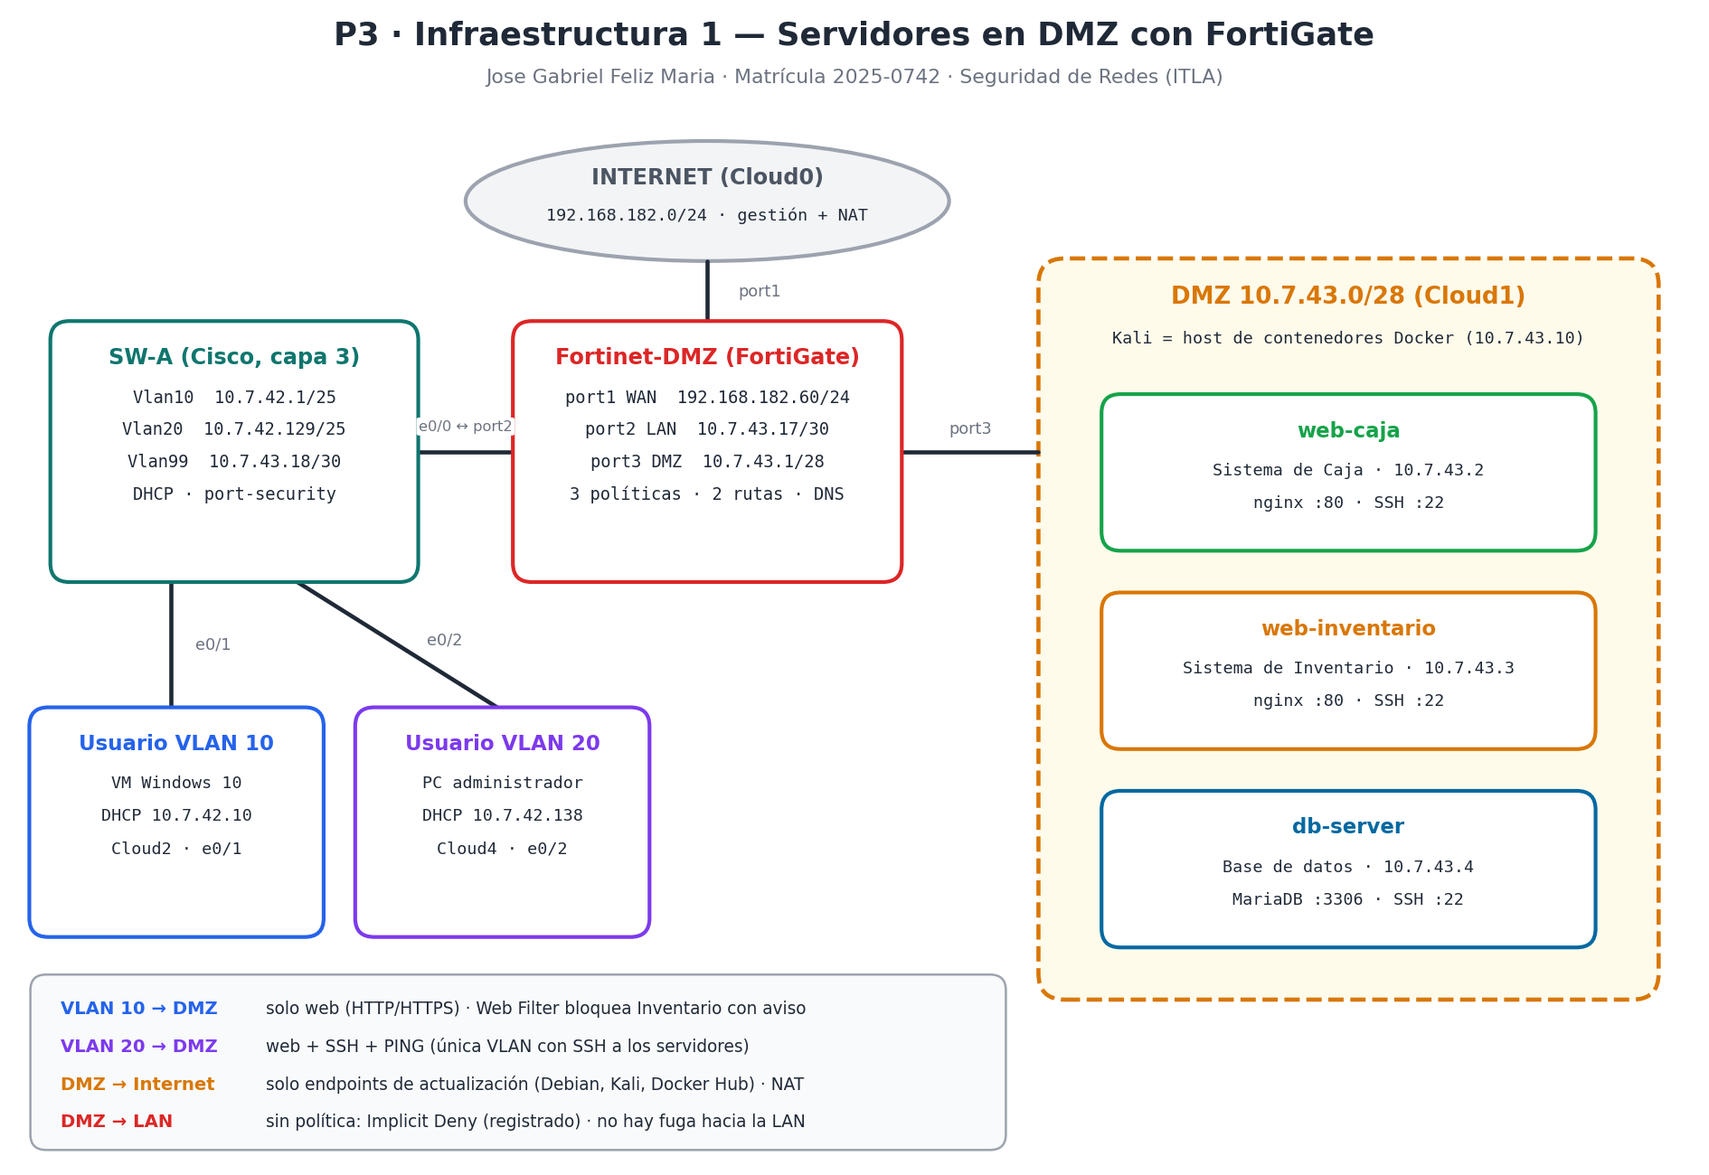
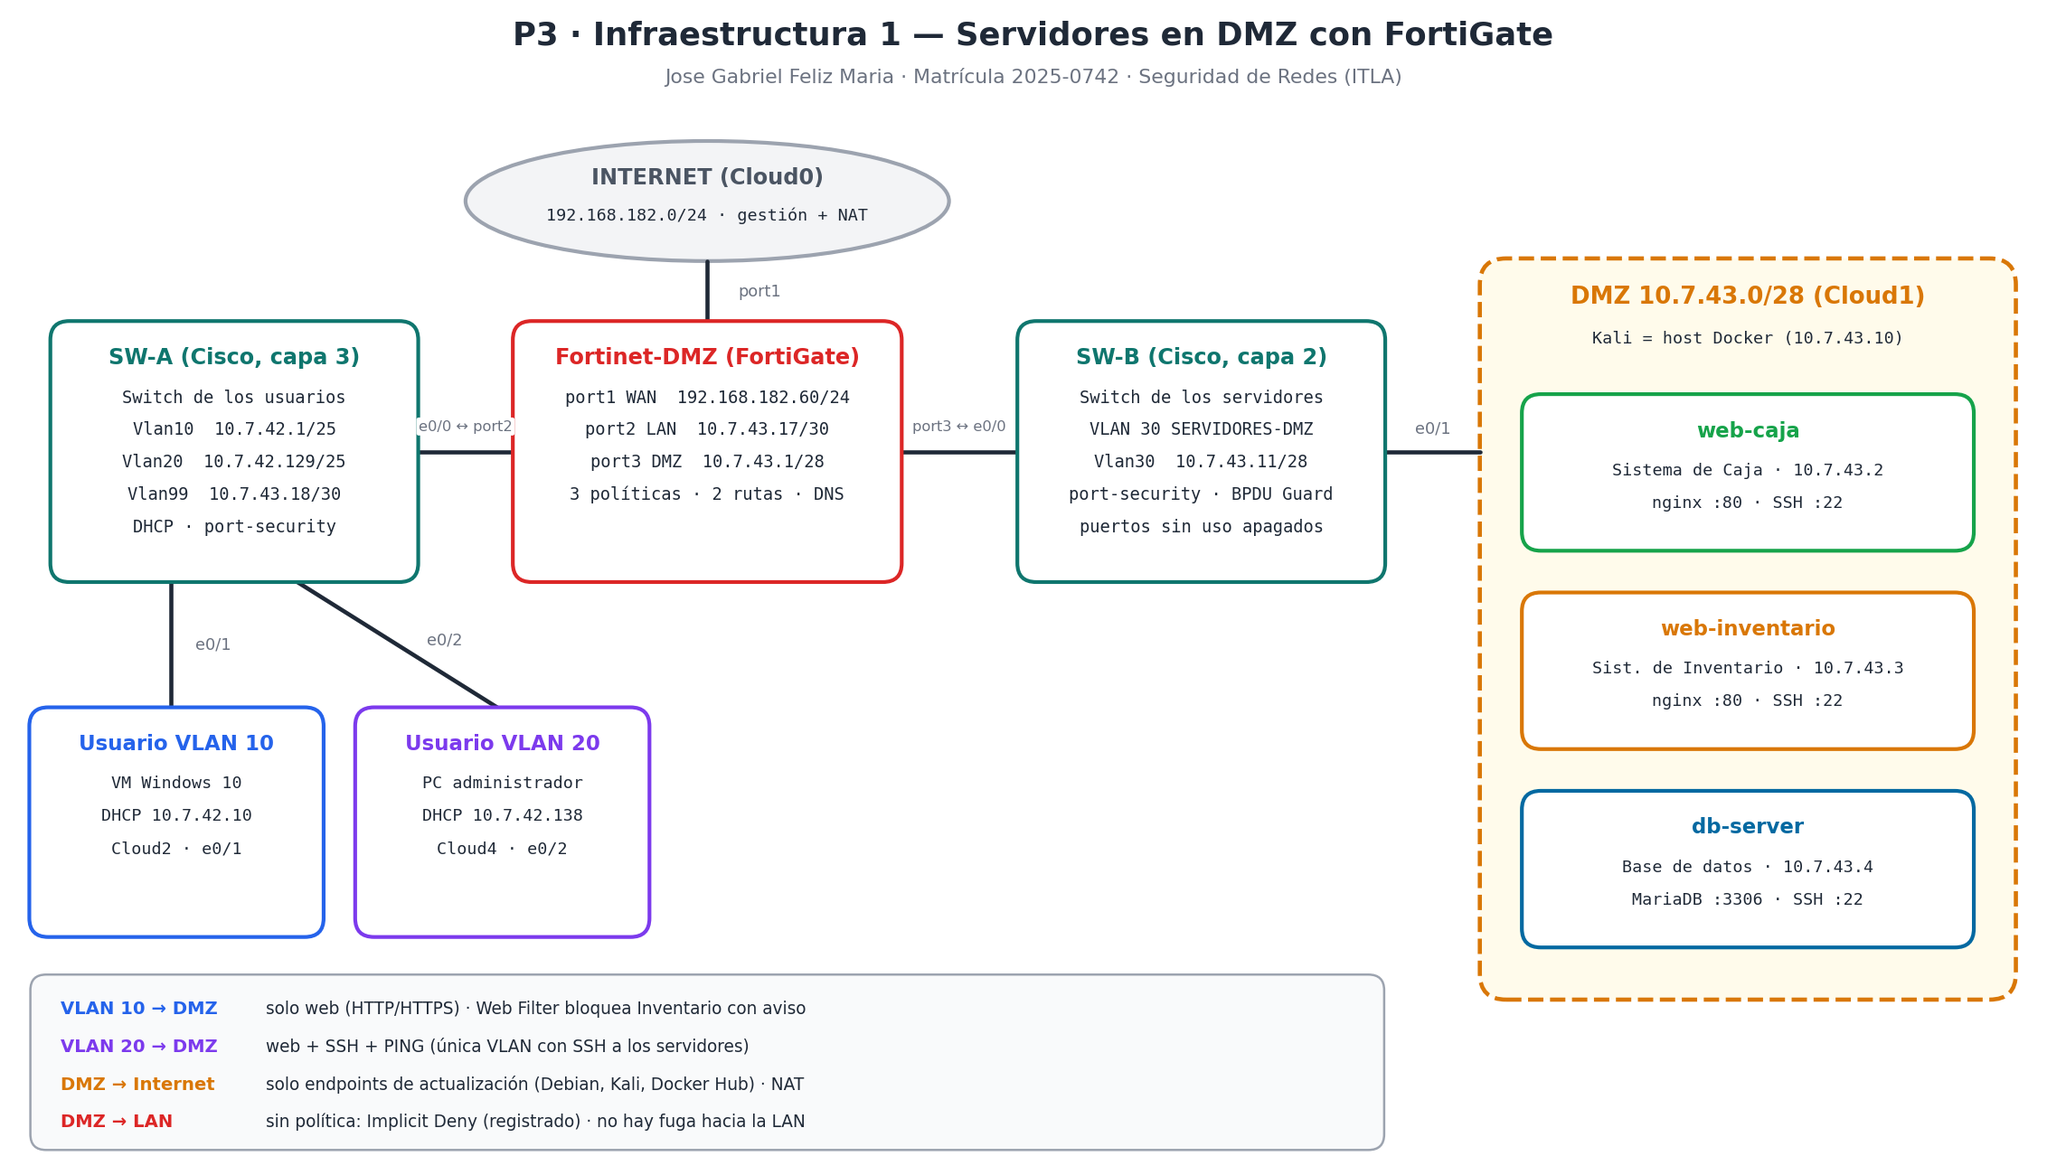
Agrega el segundo switch (SW-B) en la DMZ
SW-B une el port3 del FortiGate con los servidores (VLAN 30, port-security, puertos sin uso apagados, gestion solo desde la VLAN 20). README, diagrama, script, running-config y capturas actualizados.

diff --git a/diagramas/gen_diagrama.py b/diagramas/gen_diagrama.py
@@ -3,8 +3,8 @@ matplotlib.use("Agg")
 import matplotlib.pyplot as plt
 from matplotlib.patches import FancyBboxPatch, Ellipse, FancyArrowPatch
 
-fig, ax = plt.subplots(figsize=(16, 11), dpi=150)
-ax.set_xlim(0, 160); ax.set_ylim(0, 110); ax.axis("off")
+fig, ax = plt.subplots(figsize=(19.4, 11), dpi=150)
+ax.set_xlim(0, 194); ax.set_ylim(0, 110); ax.axis("off")
 fig.patch.set_facecolor("white")
 
 INK = "#1f2937"; MUTED = "#6b7280"
@@ -28,9 +28,9 @@ def link(p1, p2, label=None, color=INK, lw=2.2, ls="-", off=(0, 1.8), fs=8.5):
                 fontsize=fs, color=MUTED, zorder=5, bbox=dict(boxstyle="round,pad=0.15", fc="white", ec="none"))
 
 
-ax.text(80, 107, "P3 · Infraestructura 1 — Servidores en DMZ con FortiGate",
+ax.text(97, 107, "P3 · Infraestructura 1 — Servidores en DMZ con FortiGate",
         ha="center", fontsize=17, fontweight="bold", color=INK)
-ax.text(80, 103.3, "Jose Gabriel Feliz Maria · Matrícula 2025-0742 · Seguridad de Redes (ITLA)",
+ax.text(97, 103.3, "Jose Gabriel Feliz Maria · Matrícula 2025-0742 · Seguridad de Redes (ITLA)",
         ha="center", fontsize=10.5, color=MUTED)
 
 # Internet
@@ -42,31 +42,35 @@ ax.text(66, 90.2, "192.168.182.0/24 · gestión + NAT", ha="center", fontsize=8.
 box(48, 56, 36, 24, "Fortinet-DMZ (FortiGate)", ["port1 WAN  192.168.182.60/24", "port2 LAN  10.7.43.17/30",
                                                  "port3 DMZ  10.7.43.1/28", "3 políticas · 2 rutas · DNS"], C_FGT, tfs=11.5)
 # Switch
-box(4, 56, 34, 24, "SW-A (Cisco, capa 3)", ["Vlan10  10.7.42.1/25", "Vlan20  10.7.42.129/25",
+box(4, 56, 34, 24, "SW-A (Cisco, capa 3)", ["Switch de los usuarios", "Vlan10  10.7.42.1/25", "Vlan20  10.7.42.129/25",
                                            "Vlan99  10.7.43.18/30", "DHCP · port-security"], C_SW, tfs=11.5)
+# Switch de la DMZ
+box(96, 56, 34, 24, "SW-B (Cisco, capa 2)", ["Switch de los servidores", "VLAN 30 SERVIDORES-DMZ", "Vlan30  10.7.43.11/28",
+                                              "port-security · BPDU Guard", "puertos sin uso apagados"], C_SW, tfs=11.5)
 # Users
 box(2, 22, 27, 21, "Usuario VLAN 10", ["VM Windows 10", "DHCP 10.7.42.10", "Cloud2 · e0/1"], C_USR, fs=8.8, tfs=11)
 box(33, 22, 27, 21, "Usuario VLAN 20", ["PC administrador", "DHCP 10.7.42.138", "Cloud4 · e0/2"], C_ADM, fs=8.8, tfs=11)
 
 # DMZ zone
-ax.add_patch(FancyBboxPatch((98, 16), 58, 70, boxstyle="round,pad=0.5,rounding_size=2.5",
+ax.add_patch(FancyBboxPatch((140, 16), 50, 70, boxstyle="round,pad=0.5,rounding_size=2.5",
                             linewidth=2.2, edgecolor=C_WEB, facecolor="#fffbeb", ls="--", zorder=1))
-ax.text(127, 82.2, "DMZ 10.7.43.0/28 (Cloud1)", ha="center", fontsize=12.5, fontweight="bold", color=C_WEB)
-ax.text(127, 78.4, "Kali = host de contenedores Docker (10.7.43.10)", ha="center", fontsize=8.8, color=INK,
+ax.text(165, 82.2, "DMZ 10.7.43.0/28 (Cloud1)", ha="center", fontsize=12.5, fontweight="bold", color=C_WEB)
+ax.text(165, 78.4, "Kali = host Docker (10.7.43.10)", ha="center", fontsize=8.8, color=INK,
         family="DejaVu Sans Mono")
-box(104, 59, 46, 14, "web-caja", ["Sistema de Caja · 10.7.43.2", "nginx :80 · SSH :22"], C_OK, fs=8.8, tfs=11)
-box(104, 40, 46, 14, "web-inventario", ["Sistema de Inventario · 10.7.43.3", "nginx :80 · SSH :22"], C_WEB, fs=8.8, tfs=11)
-box(104, 21, 46, 14, "db-server", ["Base de datos · 10.7.43.4", "MariaDB :3306 · SSH :22"], C_DB, fs=8.8, tfs=11)
+box(144, 59, 42, 14, "web-caja", ["Sistema de Caja · 10.7.43.2", "nginx :80 · SSH :22"], C_OK, fs=8.8, tfs=11)
+box(144, 40, 42, 14, "web-inventario", ["Sist. de Inventario · 10.7.43.3", "nginx :80 · SSH :22"], C_WEB, fs=8.8, tfs=11)
+box(144, 21, 42, 14, "db-server", ["Base de datos · 10.7.43.4", "MariaDB :3306 · SSH :22"], C_DB, fs=8.8, tfs=11)
 
 # Links
 link((66, 80.5), (66, 86.2), "port1", off=(5, 0))
 link((38.5, 68), (47.5, 68), "e0/0 ↔ port2", off=(0, 2.4), fs=7.8)
-link((84.5, 68), (97.5, 68), "port3", off=(0, 2.2))
+link((84.5, 68), (95.5, 68), "port3 ↔ e0/0", off=(0, 2.4), fs=7.8)
+link((130.5, 68), (139.5, 68), "e0/1", off=(0, 2.2))
 link((15, 55.5), (15, 43.5), "e0/1", off=(4, 0))
 link((27, 55.5), (46, 43.5), "e0/2", off=(4.5, 0.5))
 
 # Policy legend
-ax.add_patch(FancyBboxPatch((2, 1.5), 92, 16, boxstyle="round,pad=0.4,rounding_size=1.5",
+ax.add_patch(FancyBboxPatch((2, 1.5), 128, 16, boxstyle="round,pad=0.4,rounding_size=1.5",
                             linewidth=1.2, edgecolor=C_MG, facecolor="#f9fafb", zorder=1))
 rows = [
     (C_USR, "VLAN 10 → DMZ", "solo web (HTTP/HTTPS) · Web Filter bloquea Inventario con aviso"),

diff --git a/README.md b/README.md
@@ -19,7 +19,7 @@ En el video se muestra la hora y fecha del sistema, el rostro y la voz del autor
 2. [Topología](#2-topología)
 3. [Direccionamiento IP](#3-direccionamiento-ip)
 4. [Decisiones de Diseño](#4-decisiones-de-diseño)
-5. [Switch SW-A: VLAN, DHCP y Seguridad Básica](#5-switch-sw-a-vlan-dhcp-y-seguridad-básica)
+5. [Switches SW-A y SW-B: VLAN, DHCP y Seguridad Básica](#5-switches-sw-a-y-sw-b-vlan-dhcp-y-seguridad-básica)
 6. [Servidores de la DMZ (Contenedores Docker)](#6-servidores-de-la-dmz-contenedores-docker)
 7. [FortiGate: Red y DMZ (GUI)](#7-fortigate-red-y-dmz-gui)
 8. [FortiGate: Objetos y Políticas (GUI)](#8-fortigate-objetos-y-políticas-gui)
@@ -42,7 +42,7 @@ Proteger tres servidores (dos servidores web y uno de base de datos) colocándol
 4. **SSH solo desde la VLAN 20.** La VLAN 20 (administración) es la única que puede entrar por SSH a los servidores.
 5. **VLAN 10 restringida al Sistema de Inventario.** El usuario de la VLAN 10 no puede abrir ese servidor web y **ve un aviso de que violó una política** cuando lo intenta.
 
-Toda la configuración y demostración del FortiGate se hizo por **interfaz gráfica (GUI)**; solo el acceso inicial se hizo por consola. El switch y los servidores se configuraron por CLI.
+Toda la configuración y demostración del FortiGate se hizo por **interfaz gráfica (GUI)**; solo el acceso inicial se hizo por consola. Los dos switches y los servidores se configuraron por CLI.
 
 ---
 
@@ -57,8 +57,9 @@ Topología montada en PNETLab:
 | Equipo | Rol |
 |---|---|
 | **Fortinet-DMZ** | FortiGate: separa Internet, la LAN de usuarios y la DMZ, y aplica todas las políticas |
-| **SW-A** | Switch Cisco IOL: VLAN 10 y VLAN 20, sus gateways, DHCP y seguridad básica |
-| **DMZ (Cloud1)** | Red de la DMZ: el Kali (host de contenedores) con los 3 servidores |
+| **SW-A** | Switch Cisco IOL de los usuarios: VLAN 10 y VLAN 20, sus gateways, DHCP y seguridad básica |
+| **SW-B** | Switch Cisco IOL de la DMZ: VLAN 30 de los servidores y seguridad básica |
+| **DMZ (Cloud1)** | Red de la DMZ: el Kali (host de contenedores) con los 3 servidores, conectado al SW-B |
 | **web-caja** | Web Server: Sistema de Caja |
 | **web-inventario** | Web Server: Sistema de Inventario |
 | **db-server** | DB Server (MariaDB) |
@@ -76,7 +77,7 @@ Direccionamiento basado en la matrícula **2025-0742**: `10.7.42.0/24` para los 
 |---|---|---|---|
 | VLAN 10 – Usuarios | `10.7.42.0/25` | `10.7.42.1` (SW-A) | DHCP `10.7.42.10 – 10.7.42.126` |
 | VLAN 20 – Administración | `10.7.42.128/25` | `10.7.42.129` (SW-A) | DHCP `10.7.42.138 – 10.7.42.254` |
-| DMZ – Servidores | `10.7.43.0/28` | `10.7.43.1` (FortiGate) | Servidores `.2`, `.3`, `.4` · host Docker `.10` |
+| DMZ – Servidores (VLAN 30 en SW-B) | `10.7.43.0/28` | `10.7.43.1` (FortiGate) | Servidores `.2`, `.3`, `.4` · host Docker `.10` · SW-B `.11` |
 | Enlace FortiGate ↔ SW-A | `10.7.43.16/30` | — | FortiGate `.17` · SW-A `.18` |
 | Internet / gestión | `192.168.182.0/24` | `192.168.182.2` | port1 del FortiGate `.60` |
 
@@ -86,6 +87,7 @@ Direccionamiento basado en la matrícula **2025-0742**: `10.7.42.0/24` para los 
 | Fortinet-DMZ | port2 (LAN_USUARIOS) | `10.7.43.17/30` |
 | Fortinet-DMZ | port3 (DMZ_SERVIDORES) | `10.7.43.1/28` |
 | SW-A | Vlan10 · Vlan20 · Vlan99 | `10.7.42.1/25` · `10.7.42.129/25` · `10.7.43.18/30` |
+| SW-B | Vlan30 (gestión) | `10.7.43.11/28` |
 | web-caja | eth0 | `10.7.43.2/28` |
 | web-inventario | eth0 | `10.7.43.3/28` |
 | db-server | eth0 | `10.7.43.4/28` |
@@ -105,14 +107,19 @@ La licencia de evaluación de FortiGate VM permite como máximo **3 interfaces, 
 | Políticas | 3 | VLAN 10 → DMZ · VLAN 20 → DMZ · DMZ → actualizaciones |
 | Rutas | 3 | Ruta por defecto · ruta hacia las VLAN (2 en total) |
 
-- **Las VLAN las enruta el switch.** Como el FortiGate no puede tener una interfaz por VLAN, el SW-A trabaja en capa 3: es el gateway y el servidor DHCP de la VLAN 10 y la VLAN 20, y envía todo hacia el FortiGate por un solo enlace. El FortiGate distingue cada VLAN por su red de origen.
+- **Las VLAN de los usuarios las enruta el SW-A.** Como el FortiGate no puede tener una interfaz por VLAN, el SW-A trabaja en capa 3: es el gateway y el servidor DHCP de la VLAN 10 y la VLAN 20, y envía todo hacia el FortiGate por un solo enlace. El FortiGate distingue cada VLAN por su red de origen.
+- **Un switch por zona.** El SW-A atiende a los usuarios y el SW-B a los servidores de la DMZ. El SW-B trabaja solo en capa 2 y su único camino hacia otras redes es el port3 del FortiGate, así que no existe forma de llegar a la DMZ sin pasar por el firewall.
 - **La protección contra fugas no gasta políticas.** No existe ninguna política desde la DMZ hacia la LAN, así que el *Implicit Deny* bloquea ese tráfico, y se activó su registro para poder demostrarlo.
 - **El DNS no gasta políticas.** El FortiGate actúa como servidor DNS de la DMZ y de los usuarios.
 - **Los usuarios no tienen salida a Internet.** La práctica no lo pide, y así las 3 políticas disponibles se dedican a los requisitos de seguridad.
 
 ---
 
-## 5. Switch SW-A: VLAN, DHCP y Seguridad Básica
+## 5. Switches SW-A y SW-B: VLAN, DHCP y Seguridad Básica
+
+La topología tiene dos switches Cisco, uno por zona. No hay ningún enlace entre ellos: todo lo que va de los usuarios a los servidores pasa por el FortiGate.
+
+### 5.1 SW-A: switch de los usuarios (capa 3)
 
 - **VLAN 10 (USUARIOS)** en `e0/1`, **VLAN 20 (ADMINISTRACION)** en `e0/2`, **VLAN 99 (ENLACE-FORTIGATE)** en `e0/0` y **VLAN 999 (SIN-USO)** para el puerto libre.
 - **Gateways (SVI) y ruteo:** `Vlan10 10.7.42.1/25`, `Vlan20 10.7.42.129/25`, `Vlan99 10.7.43.18/30` y ruta por defecto hacia el FortiGate (`10.7.43.17`).
@@ -128,11 +135,35 @@ La licencia de evaluación de FortiGate VM permite como máximo **3 interfaces, 
 
 Script: [`scripts/SW-A_config.txt`](scripts/SW-A_config.txt)
 
+### 5.2 SW-B: switch de la DMZ (capa 2)
+
+- **VLAN 30 (SERVIDORES-DMZ)** en `e0/0` (enlace al port3 del FortiGate) y `e0/1` (servidores), y **VLAN 999 (SIN-USO)** para los puertos libres.
+- **Solo capa 2:** el enrutamiento está apagado (`no ip routing`).
+- **Gestión:** `Vlan30 10.7.43.11/28`, con el FortiGate como gateway.
+- **Seguridad básica:**
+  - **Port-security** en el puerto de los servidores (máximo 10 MAC, violación *restrict*). Por ese puerto llegan el host de contenedores y los tres servidores, cada uno con su propia MAC. Las direcciones se aprenden de forma dinámica y caducan a los 10 minutos de inactividad (ver el problema 11.6).
+  - **PortFast** y **BPDU Guard** en el puerto de los servidores.
+  - Puertos sin uso (`e0/2` y `e0/3`) en la VLAN 999 y apagados.
+  - `enable secret`, `service password-encryption`, banner, contraseña de consola y servidor HTTP desactivado.
+  - Administración remota solo por **SSH v2**, con usuario local y **solo desde la VLAN 20** (`access-class 20`). Ese acceso además tiene que pasar por la política `VLAN20_ADMIN_DMZ` del FortiGate.
+
+![VLAN del SW-B](screenshots/27_sw-b_vlan_brief.png)
+
+El SW-B llega al FortiGate, al host y a los tres servidores, y el puerto de los servidores tiene aprendidas sus cuatro direcciones:
+
+![SW-B: pings y port-security](screenshots/26_sw-b_ping_y_port_security.png)
+
+Desde la VLAN 20 (administración) responden un servidor y el propio SW-B, pasando por el FortiGate:
+
+![Ping desde la VLAN 20 a un servidor y al SW-B](screenshots/28_vlan20_ping_servidor_y_sw-b.png)
+
+Script: [`scripts/SW-B_config.txt`](scripts/SW-B_config.txt)
+
 ---
 
 ## 6. Servidores de la DMZ (Contenedores Docker)
 
-Los tres servidores son **contenedores Docker** que corren en el Kali, que está conectado a la DMZ (VMnet2 → Cloud1 → port3 del FortiGate). Se usa una red Docker de tipo **macvlan** sobre la interfaz `eth1` del Kali, así que cada contenedor tiene **su propia IP y su propia MAC** en la red de la DMZ: para el FortiGate son tres servidores independientes.
+Los tres servidores son **contenedores Docker** que corren en el Kali, que está conectado a la DMZ (VMnet2 → Cloud1 → SW-B → port3 del FortiGate). Se usa una red Docker de tipo **macvlan** sobre la interfaz `eth1` del Kali, así que cada contenedor tiene **su propia IP y su propia MAC** en la red de la DMZ: para el FortiGate son tres servidores independientes.
 
 | Servidor | IP | Servicios | Imagen |
 |---|---|---|---|
@@ -247,6 +278,8 @@ El perfil se aplica solo en la política `VLAN10_WEB_DMZ`, así que la VLAN 20 n
 | 9 | **DMZ solo actualizaciones** | `apt-get update` en `web-caja` y `apt update` en el Kali | ✅ Descargan de `deb.debian.org` y `kali.download` |
 | 10 | **DMZ sin Internet abierto** | `curl https://www.google.com` desde `web-caja` | ✅ *Connection timed out* |
 | 11 | Registro | Log & Report → Forward Traffic | ✅ Bloqueos registrados como *Deny: policy violation* |
+| 12 | Switch de la DMZ | `ping` desde SW-B al FortiGate, al host y a los tres servidores | ✅ Responden todos |
+| 13 | Switch de la DMZ administrado desde la VLAN 20 | `ping 10.7.43.11` desde la VLAN 20 | ✅ Responde, pasando por el FortiGate |
 
 ### VLAN 20 (administración): web y SSH a los servidores
 
@@ -302,7 +335,7 @@ El repositorio por defecto de Kali (`http.kali.org`) redirige cada descarga a un
 
 ### 11.3 El usuario de la VLAN 10 entraba por SSH
 
-En la primera prueba, el SSH desde la VM Windows 10 **sí entraba** a los servidores. La VM tenía conectado un segundo adaptador de red con salida a Internet, y su tráfico salía por ahí en lugar de pasar por el switch como VLAN 10. **Solución:** se desconectó ese adaptador en VMware; con la VM solo en la VLAN 10, el SSH quedó bloqueado (*Connection timed out*).
+En la primera prueba, el SSH desde la VM Windows 10 **sí entraba** a los servidores. La VM tenía conectado un segundo adaptador de red con salida a Internet, y su tráfico salía por ahí en lugar de pasar por el SW-A como VLAN 10. **Solución:** se desconectó ese adaptador en VMware; con la VM solo en la VLAN 10, el SSH quedó bloqueado (*Connection timed out*).
 
 ### 11.4 El navegador cambiaba a HTTPS
 
@@ -312,22 +345,32 @@ Edge convertía la dirección a `https://` y los servidores web solo publican HT
 
 Con el perfil recién aplicado, las conexiones de la VLAN 10 a los dos servidores web terminaban en *timeout* (ni Caja abría). Se revisaron la política y el perfil, que estaban correctos; en la siguiente sesión de pruebas el Web Filter ya respondía: Caja abre y el Inventario muestra la página de bloqueo.
 
+### 11.6 Las MAC de los servidores cambian en cada arranque
+
+Al configurar port-security en el SW-B se vio que Docker le da una MAC nueva a cada contenedor cada vez que arranca. Con direcciones *sticky*, las viejas se quedarían guardadas y, tras unos cuantos reinicios, el puerto llegaría a su máximo y el switch empezaría a descartar el tráfico de los servidores. **Solución:** en ese puerto las direcciones se aprenden de forma dinámica y caducan a los 10 minutos de inactividad (`aging type inactivity`); el límite de 10 direcciones se mantiene.
+
+### 11.7 El SW-B no respondía a la VLAN 20
+
+Desde la VLAN 20 los servidores respondían, pero el ping a la IP de gestión del SW-B se perdía. En esta imagen de Cisco el enrutamiento viene activado, y con él activado el switch ignora `ip default-gateway`, así que no sabía por dónde devolver la respuesta. **Solución:** `no ip routing`, que además deja al SW-B como un switch solo de capa 2.
+
 ---
 
 ## 12. Scripts y Running-Configs
 
 | Archivo | Descripción |
 |---|---|
-| [`scripts/SW-A_config.txt`](scripts/SW-A_config.txt) | Configuración completa del switch SW-A |
+| [`scripts/SW-A_config.txt`](scripts/SW-A_config.txt) | Configuración completa del switch SW-A (usuarios) |
+| [`scripts/SW-B_config.txt`](scripts/SW-B_config.txt) | Configuración completa del switch SW-B (DMZ) |
 | [`scripts/Fortinet-DMZ_acceso_inicial_CLI.txt`](scripts/Fortinet-DMZ_acceso_inicial_CLI.txt) | Acceso inicial por consola del FortiGate (IP de gestión) |
 | [`scripts/kali_red_docker_y_repositorio.sh`](scripts/kali_red_docker_y_repositorio.sh) | Red del Kali en la DMZ, repositorio fijo e instalación de Docker |
 | [`scripts/kali_preparar_servidores_dmz.sh`](scripts/kali_preparar_servidores_dmz.sh) | Crea las imágenes, la red macvlan y los 3 servidores (Dockerfiles, páginas web y base de datos incluidos) |
 | [`running-configs/Fortinet-DMZ_running-config.conf`](running-configs/Fortinet-DMZ_running-config.conf) | Backup de configuración del FortiGate (GUI → Configuration → Backup) |
 | [`running-configs/SW-A_running-config.txt`](running-configs/SW-A_running-config.txt) | Running-config del SW-A, con `show port-security` y `show ip dhcp binding` |
+| [`running-configs/SW-B_running-config.txt`](running-configs/SW-B_running-config.txt) | Running-config del SW-B, con `show port-security` |
 | [`running-configs/Kali_docker_estado.txt`](running-configs/Kali_docker_estado.txt) | Estado de los contenedores y de la red `dmz_net` |
 | [`diagramas/gen_diagrama.py`](diagramas/gen_diagrama.py) | Script (Python + matplotlib) que genera el diagrama |
 
-> En el backup del FortiGate se redactaron (`<REDACTADO>`) los hashes de contraseñas y las llaves privadas de los certificados, porque el repositorio es público. Las contraseñas del switch son de laboratorio.
+> En el backup del FortiGate se redactaron (`<REDACTADO>`) los hashes de contraseñas y las llaves privadas de los certificados, porque el repositorio es público. Las contraseñas de los switches son de laboratorio.
 
 ---
 
@@ -360,6 +403,9 @@ Con el perfil recién aplicado, las conexiones de la VLAN 10 a los dos servidore
 | 23 | [`23_fgt_log_forward_traffic_deny.png`](screenshots/23_fgt_log_forward_traffic_deny.png) | Logs: bloqueos por Implicit Deny |
 | 24 | [`24_fgt_webfilter_url_bloqueada.png`](screenshots/24_fgt_webfilter_url_bloqueada.png) | Web Filter: URL bloqueada |
 | 25 | [`25_fgt_dns_servers.png`](screenshots/25_fgt_dns_servers.png) | Servicio DNS en port2 y port3 |
+| 26 | [`26_sw-b_ping_y_port_security.png`](screenshots/26_sw-b_ping_y_port_security.png) | SW-B: pings al FortiGate y a los servidores, y port-security |
+| 27 | [`27_sw-b_vlan_brief.png`](screenshots/27_sw-b_vlan_brief.png) | SW-B: VLAN 30 y puertos sin uso |
+| 28 | [`28_vlan20_ping_servidor_y_sw-b.png`](screenshots/28_vlan20_ping_servidor_y_sw-b.png) | VLAN 20: ping a un servidor y al SW-B |
 
 ---
 
@@ -369,4 +415,4 @@ Con el perfil recién aplicado, las conexiones de la VLAN 10 a los dos servidore
 - **Gestión por port1:** por el límite de interfaces, port1 es a la vez la salida a Internet y la red de gestión. En producción la gestión iría en una interfaz dedicada y sin HTTP.
 - **Servidores web por HTTP:** se publican por HTTP (puerto 80) para que el FortiGate pueda mostrar su página de bloqueo sin instalar certificados en el cliente. En producción se usaría HTTPS con inspección SSL y la CA del FortiGate instalada en los equipos.
 - **Servidores como contenedores:** los tres servidores comparten el host Docker, pero cada uno tiene su propia IP y MAC en la DMZ (macvlan), y el FortiGate los trata como equipos distintos.
-- **Tráfico entre VLAN 10 y VLAN 20:** lo enruta el SW-A y no pasa por el FortiGate. La práctica no pide restringirlo; se limitó la administración del switch a la VLAN 20.
+- **Tráfico entre VLAN 10 y VLAN 20:** lo enruta el SW-A y no pasa por el FortiGate. La práctica no pide restringirlo; se limitó la administración de los dos switches a la VLAN 20.
